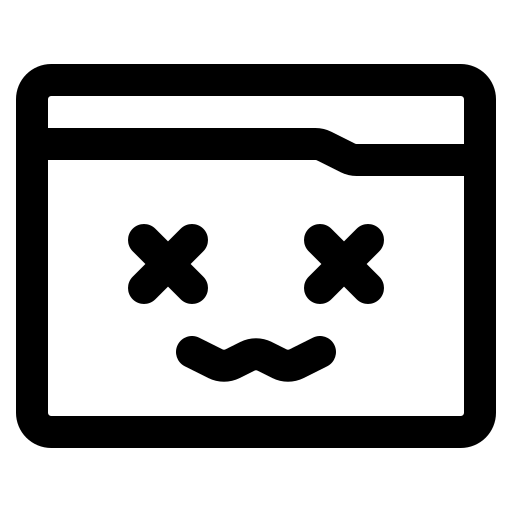
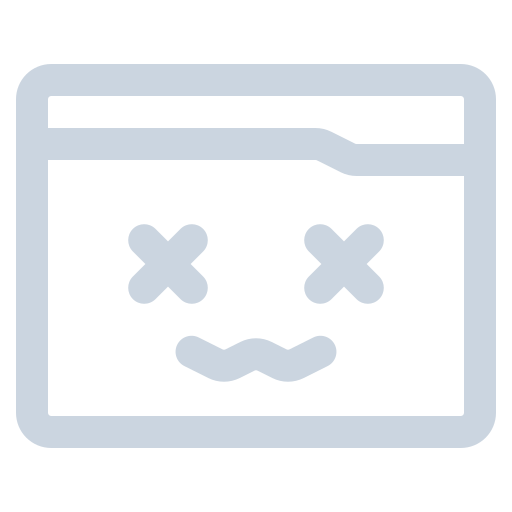
update

diff --git a/src/app/not-found.tsx b/src/app/not-found.tsx
@@ -4,7 +4,7 @@ import Link from 'next/link'
 export default function NotFound() {
   return (
     <div className="flex min-h-screen items-center justify-center px-4 sm:px-6 lg:px-8">
-      <div className="flex w-full max-w-md flex-col items-center">
+      <div className="flex w-full max-w-md flex-col items-center text-zinc-300">
         <Image
           src="/images/erro-404.png"
           alt="Página não encontrada"
@@ -12,12 +12,12 @@ export default function NotFound() {
           width={100}
           className="mx-auto"
         />
-        <h2 className="mt-2 text-xl font-extrabold text-gray-900 lg:text-3xl">
+        <h2 className="mt-2 text-xl font-extrabold lg:text-3xl">
           Página não encontrada
         </h2>
         <Link
           href={'/'}
-          className="mt-2 text-lg font-semibold text-blue-700 underline"
+          className="mt-2 text-lg font-semibold text-blue-500 underline"
         >
           Voltar para área segura
         </Link>

diff --git a/src/app/loading.tsx b/src/app/loading.tsx
@@ -1,7 +1,7 @@
 export default function Loading() {
   return (
     <div className="flex min-h-screen w-full items-center justify-center">
-      <div className="h-16 w-16 animate-spin rounded-full border-8 border-stone-800 border-t-transparent" />
+      <div className="h-16 w-16 animate-spin rounded-full border-8 border-zinc-300 border-t-transparent" />
     </div>
   )
 }

diff --git a/src/app/(private-route)/layout.tsx b/src/app/(private-route)/layout.tsx
@@ -11,7 +11,12 @@ export default async function PublicLayout({
 
   return (
     <>
-      <div className="container">{children}</div>
+      <div
+        className="container mt-20"
+        style={{ minHeight: 'calc(100vh - 5rem)' }}
+      >
+        {children}
+      </div>
     </>
   )
 }

diff --git a/src/app/(private-route)/administrador/page.tsx b/src/app/(private-route)/administrador/page.tsx
@@ -1,6 +1,6 @@
 export default function AdmHome() {
   return (
-    <div className="relative top-20">
+    <div>
       <h1>Página inicial do ADM</h1>
     </div>
   )
